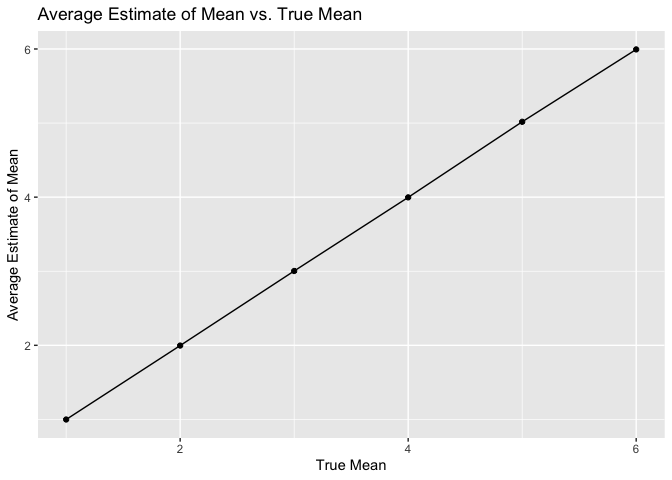
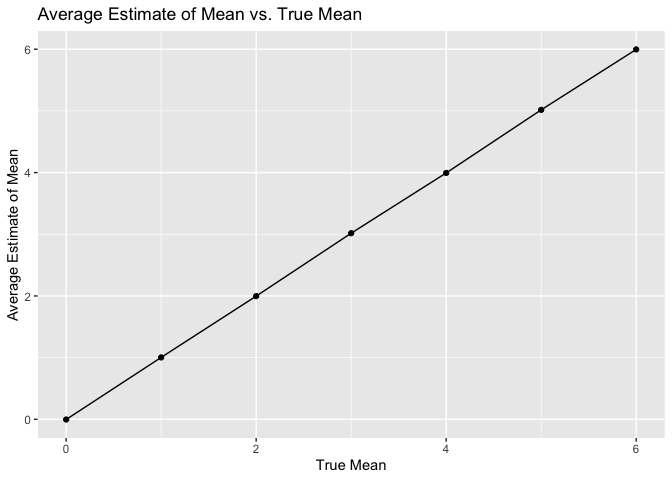
Fixing the birthday problem in office hours

diff --git a/p8105_hw5_ren2121.md b/p8105_hw5_ren2121.md
@@ -40,7 +40,7 @@ bday_sim = function (n_room) {
 bday_sim_results =
   expand_grid(
     group_size = 2:50,
-    iter = 1:10,000
+    iter = 1:10000
   ) |> 
   mutate(
     result = map_lgl(group_size, bday_sim)
@@ -51,7 +51,6 @@ bday_sim_results =
   summarize(
     prob_repeat = mean(result)
   )
-#comment! I THINK THERE'S A PROBLEM!!! it looks like 100% probability, but that can't be. I don't know how to fix this and I don't think I really understand this code.
 ```
 
 Plotting the probability as a function of group size:
@@ -90,9 +89,23 @@ t.test(x, mu = 0) |>
 
 set.seed(3) #my favorite number
 
+#Generating 5000 datasets for mu = 0
+mu_zero =
+  expand_grid(
+    mu_true = 0,
+    iter = 1:5000
+  )
+mu_zero_results_df = 
+  mu_zero |> 
+  mutate(
+    results = map(mu_true, sim_ttest)
+  ) |> 
+  unnest(results)
+
+#Generating 5000 datasets for mu = 0:6
 power_df =
   expand_grid(
-    mu_true = 1:6,
+    mu_true = 0:6,
     iter = 1:5000
   )
 power_results_df = 
@@ -233,7 +246,7 @@ There were 1825 unsolved homicides in Baltimore, MD.
 
 ``` r
 baltimore_prop =
-  prop.test(x = 1825, n =2827) |> 
+  prop.test(x = 1825, n = 2827) |> 
   broom::tidy() |> 
   select(estimate, conf.low, conf.high)
 ```
@@ -339,3 +352,5 @@ homicides_output |>
 | Tulsa, AL          |     1 |        0 | 0.0000000 | 0.0000000 | 0.9453792 |
 | Tulsa, OK          |   583 |      193 | 0.3310463 | 0.2932349 | 0.3711192 |
 | Washington, DC     |  1345 |      589 | 0.4379182 | 0.4112495 | 0.4649455 |
+
+Plot of estimates and CIs of proportion of unsolved homicides by city:
